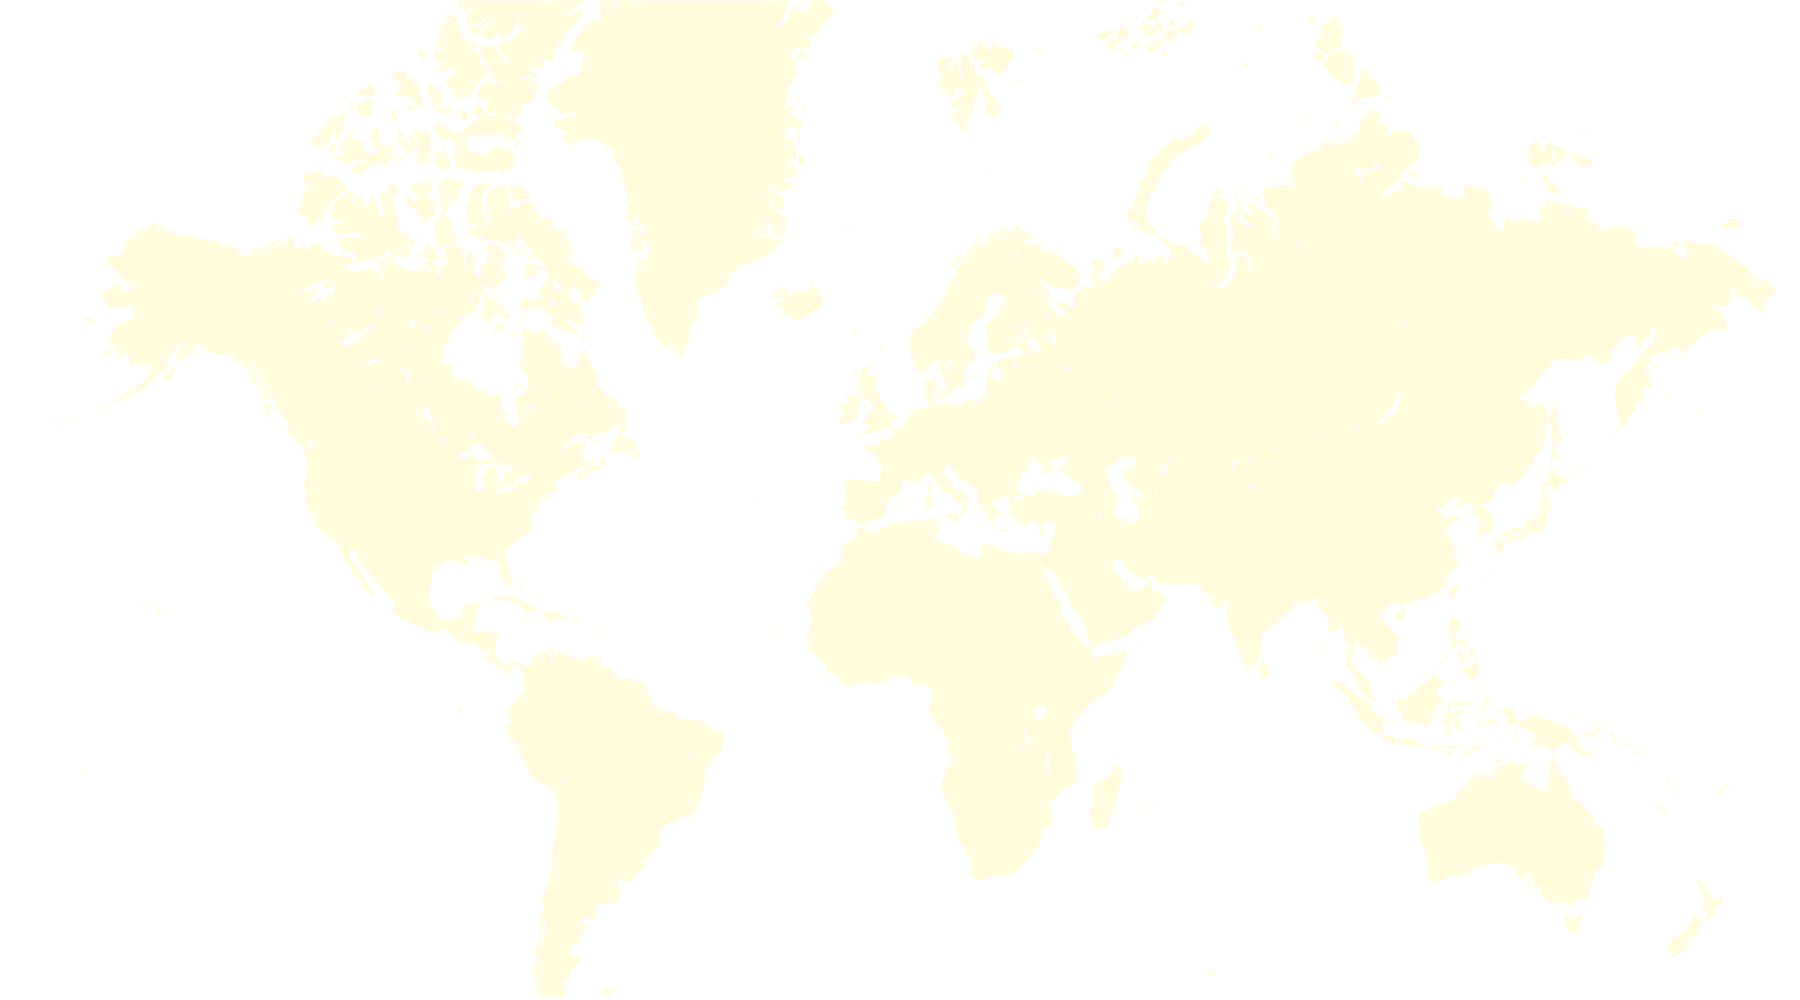
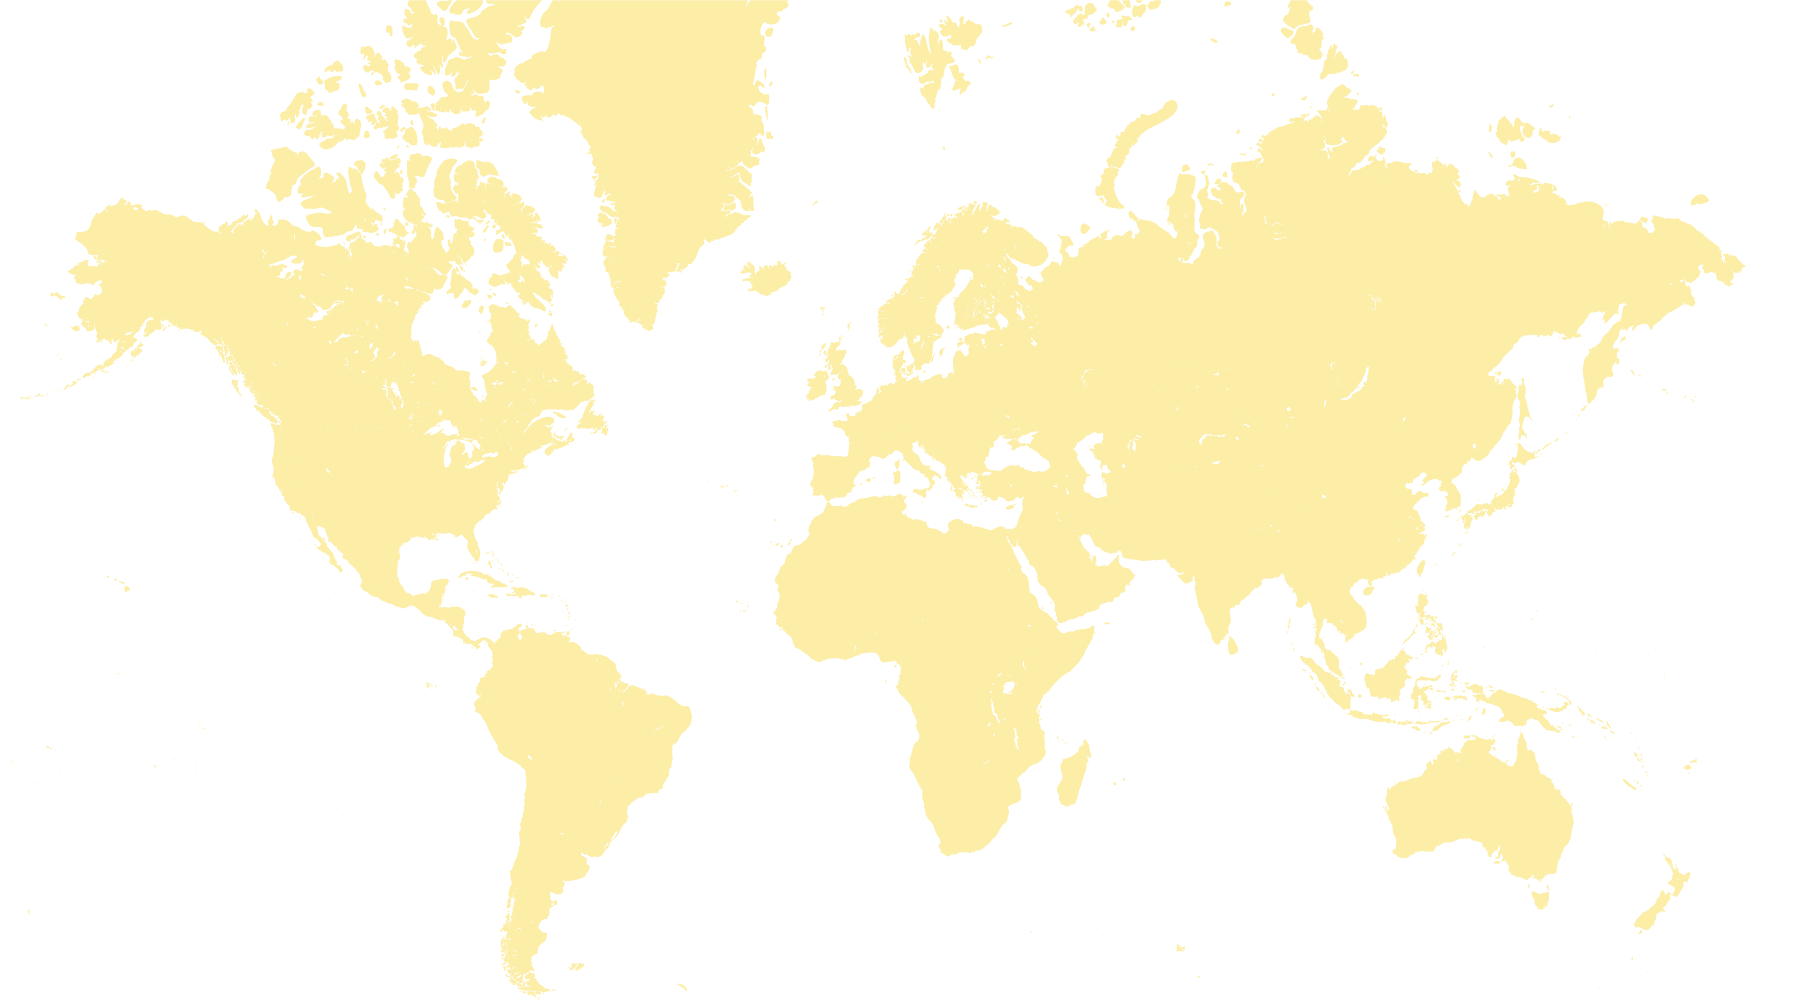
COLOR TEST - ES POSSIBLE

diff --git a/src/components/Create.js b/src/components/Create.js
@@ -161,20 +161,23 @@ class Create extends React.Component {
 				        /> 
 				    </div> 
 				    <div ref="GMap"></div>**/}
-					<div className="page-title-wrapper center-text">
-			          <div className="v2-type-page-header">Create a New Guide</div>
-			          <div className="v2-type-body2 opa-60">This could be a list of top spots or plans for an upcoming trip</div>
-			        </div>
+					
 
 				    {/* CONTAINER - START */}
 			        <div className="hero-container">
+	        			<div className="page-title-wrapper center-text DN">
+	        	          <div className="v2-type-page-header">Create a New Guide</div>
+	        	          <div className="v2-type-body2 opa-60">This could be a list of top spots or plans for an upcoming trip</div>
+	        	        </div>
 			         	<div className="hero-content flx flx-col flx-center-all ta-center">
 							
 							<div className="flx flx-col flx-center-all create-wrapper">
 						
 								<ListErrors errors={this.props.errors}></ListErrors>
 					            <div className="create-form-wrapper form-wrapper ta-left flx flx-col-left bx-shadow">
+						            
 						            <form>
+						            	<div className="v2-type-page-header mrgn-bottom-sm">Create a New Guide</div>
 						            	<fieldset className="field-wrapper">
 					                    	<label>Location</label>
 					                    	<Geosuggest 
@@ -222,18 +225,23 @@ class Create extends React.Component {
 							        </form>
 							    </div>
 						    </div>
+
+						    <div className="v2-type-body2 mrgn-top-lg ta-center DN">
+						    	<div>“Travel and change of place impart new vigor to the mind.”</div>
+						    	<div>– Seneca</div>
+						    </div>	
+
 					  	</div>
 
-					    <div className="hero-map opa-20">
+					    <div className="hero-map opa-40">
 					    </div>
 					    <div className="hero-grid opa-20">
 					    </div>
+
+
 					</div>	
 					{/* END CONTAINER */}
-					<div className="v2-type-body1 mrgn-top-lg opa-60 ta-center">
-						<div>“Travel and change of place impart new vigor to the mind.”</div>
-						<div>– Seneca</div>
-					</div>	
+					
 			    </div>
 			</div>
 		)

diff --git a/public/typography.css b/public/typography.css
@@ -231,6 +231,7 @@ textarea {
   color: #1A75CE !important; /*BLUE BERRY*/
   color: #377037 !important; /*UBER */
   color: #36B096 !important; /*UBER */
+  color: #01B7C8 !important; /*UBER */
 
 }
 
@@ -247,7 +248,10 @@ textarea {
   background-color: #1A75CE !important; /*BLUEBERRY*/
   background-color: #377037 !important; /*UBER*/
   background-color: #36B096 !important; /*UBER*/
+  background-color: #01B7C8 !important; /*UBER*/
 
+  /* Rectangle Copy: */
+  /*background-image: linear-gradient(213deg, #00FFE2 -40%, #02B1DA 50%);*/
 
 }
 /* CHANGE ME FOR COLOR TEST!!!! */
@@ -262,7 +266,8 @@ textarea {
   border-bottom: 2px solid #02706A; 
   border-bottom: 2px solid #0ABBBD;
   border-bottom: 2px solid white;
-  /*border-bottom: 2px solid #377037;*/
+  border-bottom: 2px solid #63F4F3;
+  /*border-bottom: 2px solid #37703pu7;*/
   padding-top: 2px;
 }
 ::-webkit-input-placeholder { /* Chrome/Opera/Safari */
@@ -275,6 +280,7 @@ textarea {
   color: #1A75CE !important; /*KING BLUE*/
   color: #377037 !important; /*KING BLUE*/
   color: #36B096 !important; /*KING BLUE*/
+  color: #01B7C8 !important; /*KING BLUE*/
 
   opacity: .8;
   font-weight: 300;
@@ -288,7 +294,12 @@ textarea {
   background-color: #1A75CE; /*KING BLUE*/
   background-color: #377037; /*KING BLUE*/
   background-color: initial; /*KING BLUE*/
-  background-color: #36B096; /*KING BLUE*/
+  background-color: #172983; /*KING BLUE*/
+  background-color: #1A75CE !important; /*GOOD BLUE*/
+  background-color: #036FD0 !important; /* DEVIL BLUE*/
+  background-color: #3D77B4 !important; /* DEVIL BLUE*/
+  background-color: #3569A1 !important; /* DEVIL BLUE*/
+
 
 }
 .logo-main {

diff --git a/public/styles.css b/public/styles.css
@@ -324,7 +324,7 @@ img.user-image.user-image-md {
     /*background-color:#004131;*/
     /* Rectangle 6: */
     /*background-image: linear-gradient(90deg, #1C398C 0%, #59FFF2 66%, #FFFDCD 100%);*/
-    border-bottom: 1px solid rgba(0,0,0,.1);
+    /*border-bottom: 1px solid rgba(0,0,0,.1);*/
     /* Rectangle 6: */
     opacity: 1;
     /*background-image: linear-gradient(90deg, #1C398C 0%, #59FFF2 65%, #B5FEE3 100%);*/
@@ -343,7 +343,7 @@ img.user-image.user-image-md {
   height: 40px;
   width: 220px;
   font-weight: 700;
-  margin: 12px;
+  margin: 12px 40px;
   z-index: 2;
 
 }
@@ -356,7 +356,7 @@ a.logo-module:focus {
 .logo-main {
   font-size: 17px;
   height: 38px;
-  font-weight: 700;
+  font-weight: 400;
   margin-left: 20px;
   letter-spacing: 7px;
   color: rgba(0,0,0,.8);

diff --git a/public/marketing.css b/public/marketing.css
@@ -2,13 +2,22 @@
 	height: 300px;
 	background-color:#FFFEF1;
 	/* Rectangle 3: */
-	background-image: linear-gradient(-270deg, #0095FF 2%, #4BDEC8 98%);
+	/*background-image: linear-gradient(-270deg, #0095FF 2%, #4BDEC8 98%);*/
+	background-color: #036FD0;
 	width: 100%;
 	position: relative;
 	background-attachment: fixed;
 }
 .create-page .hero-container {
-	height: 540px;
+	background-color: #87E6E5;
+	width: 100%;
+	position: absolute;
+	background-attachment: fixed;
+	top: 0;
+	bottom: 0;
+	left: 0;
+	right: 0;
+	height: initial;
 }
 .hero-content {
 	position: absolute;

diff --git a/public/mobile.css b/public/mobile.css
@@ -483,12 +483,20 @@ width: 100%;
 
 
 .create-page .hero-container {
-  height: 480px;
 }
 .create-page .hero-content {
-  padding: 0 20px;
+  padding: 0;
+  margin-top: 70px;
+  -webkit-justify-content: flex-start;
+  justify-content: flex-start;
 }
-
+.create-page .form-wrapper {
+  -webkit-justify-content: flex-start;
+  justify-content: flex-start;
+}
+.create-page .vb--create {
+  margin-bottom: 100px;
+}
 .vb.vb--mobile-full,
 .user-info .vb.vb--sm  {
   width: 100%;
